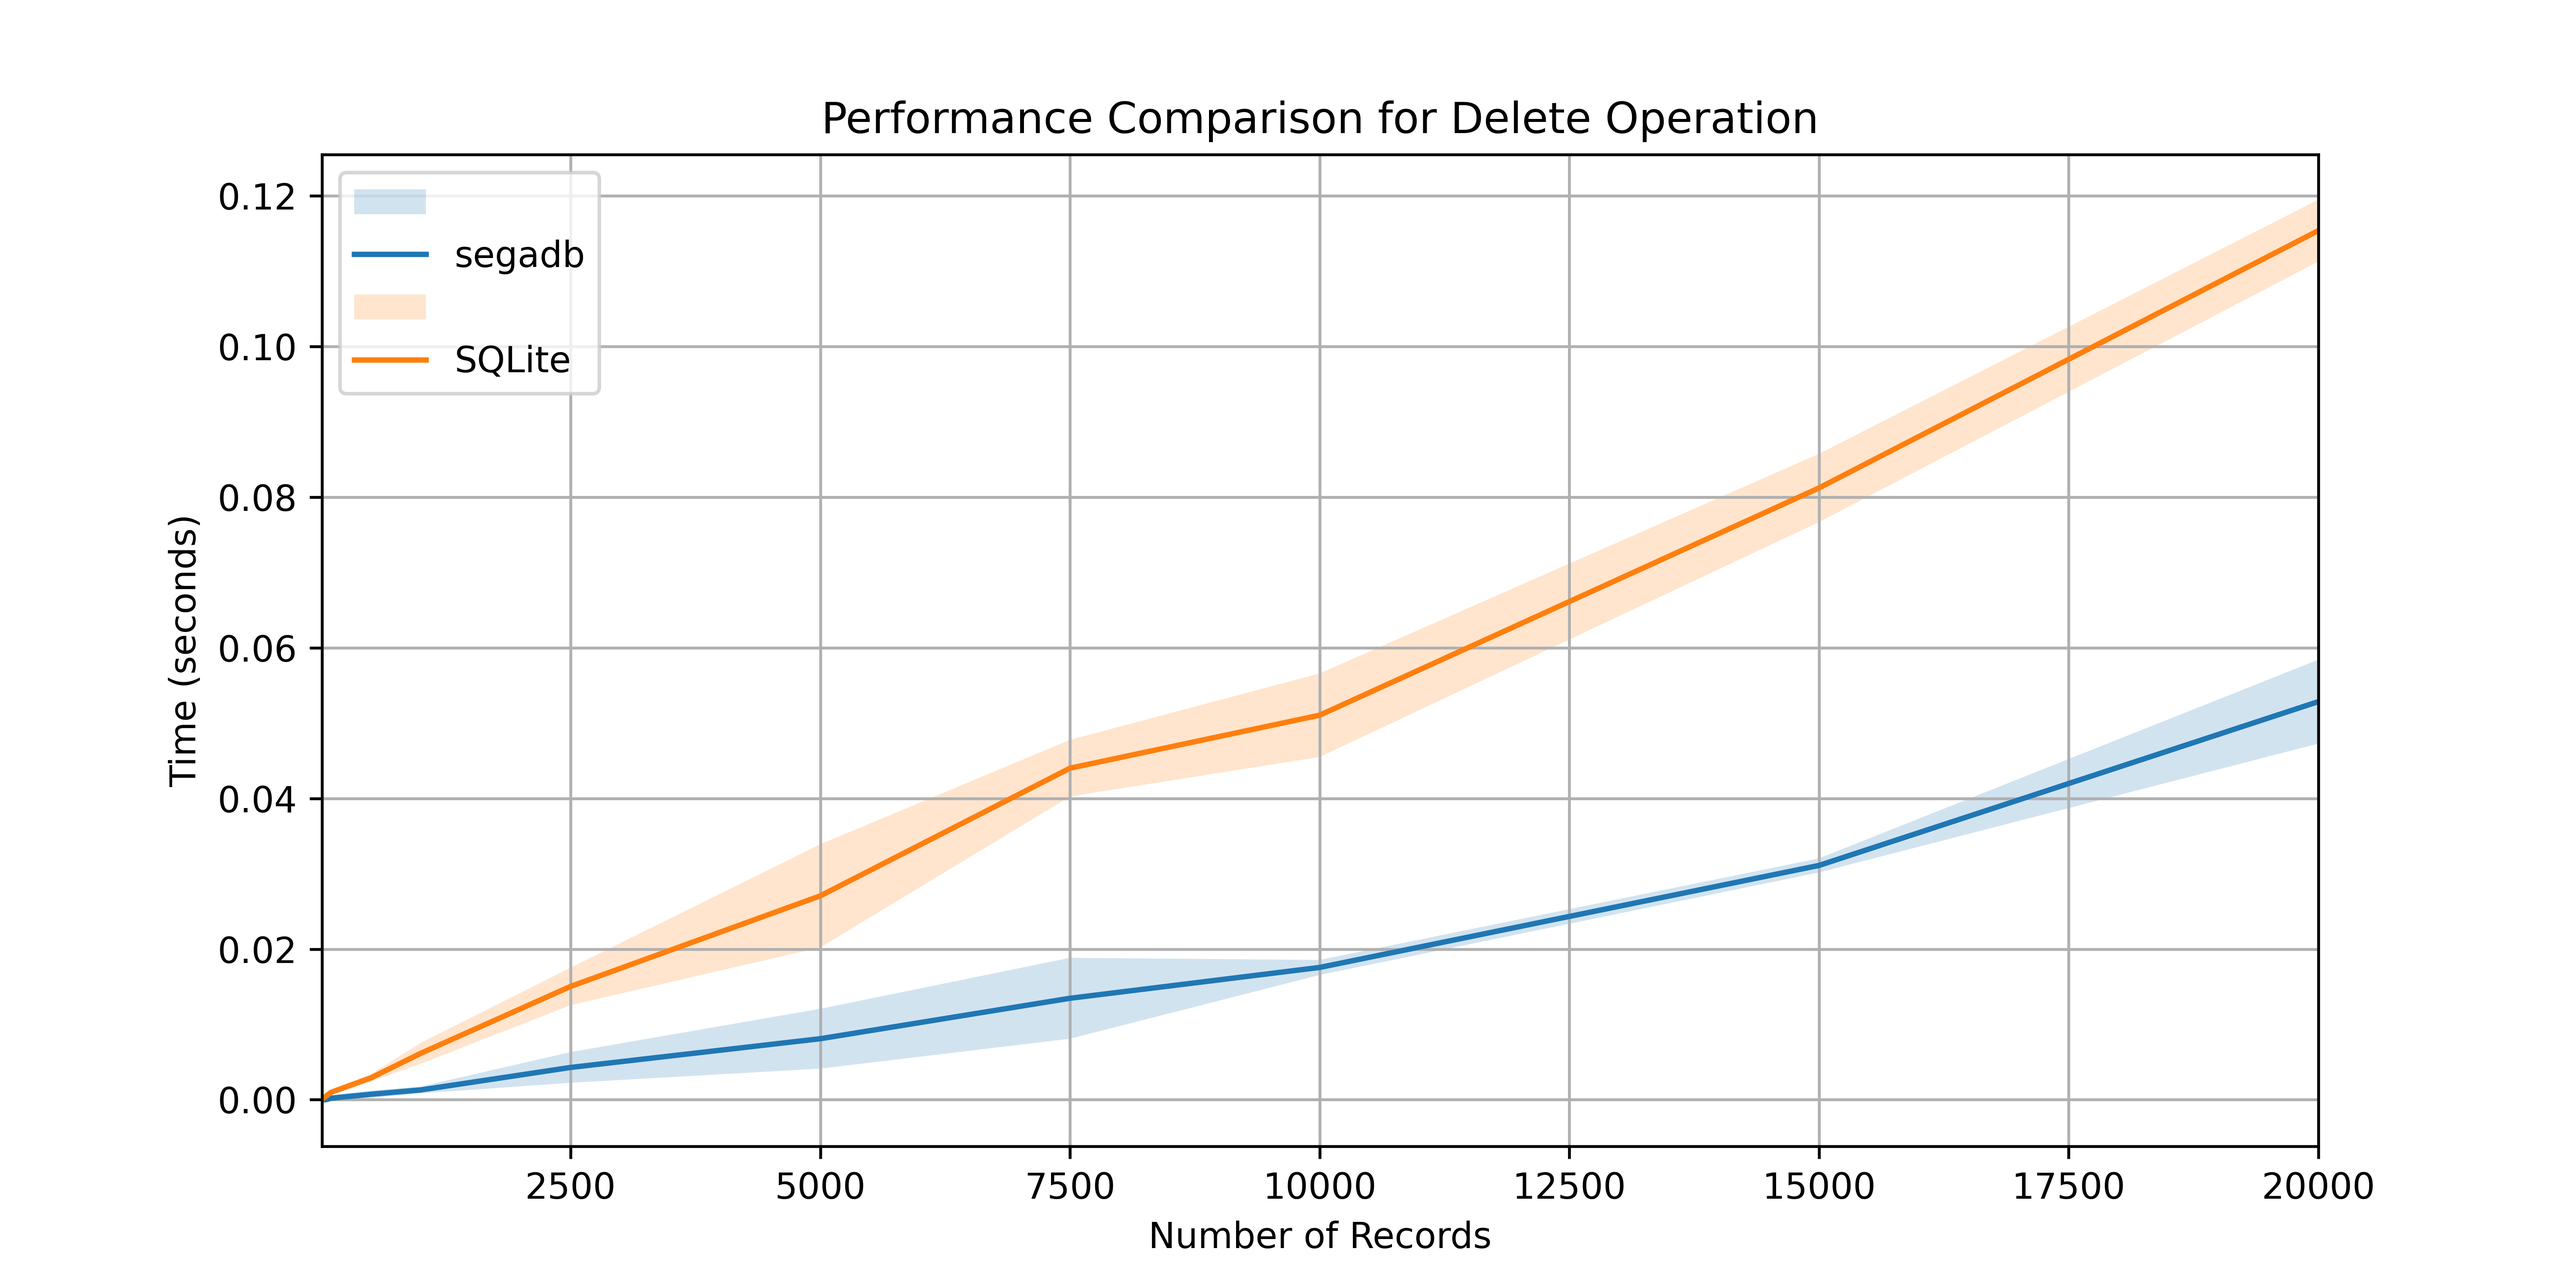
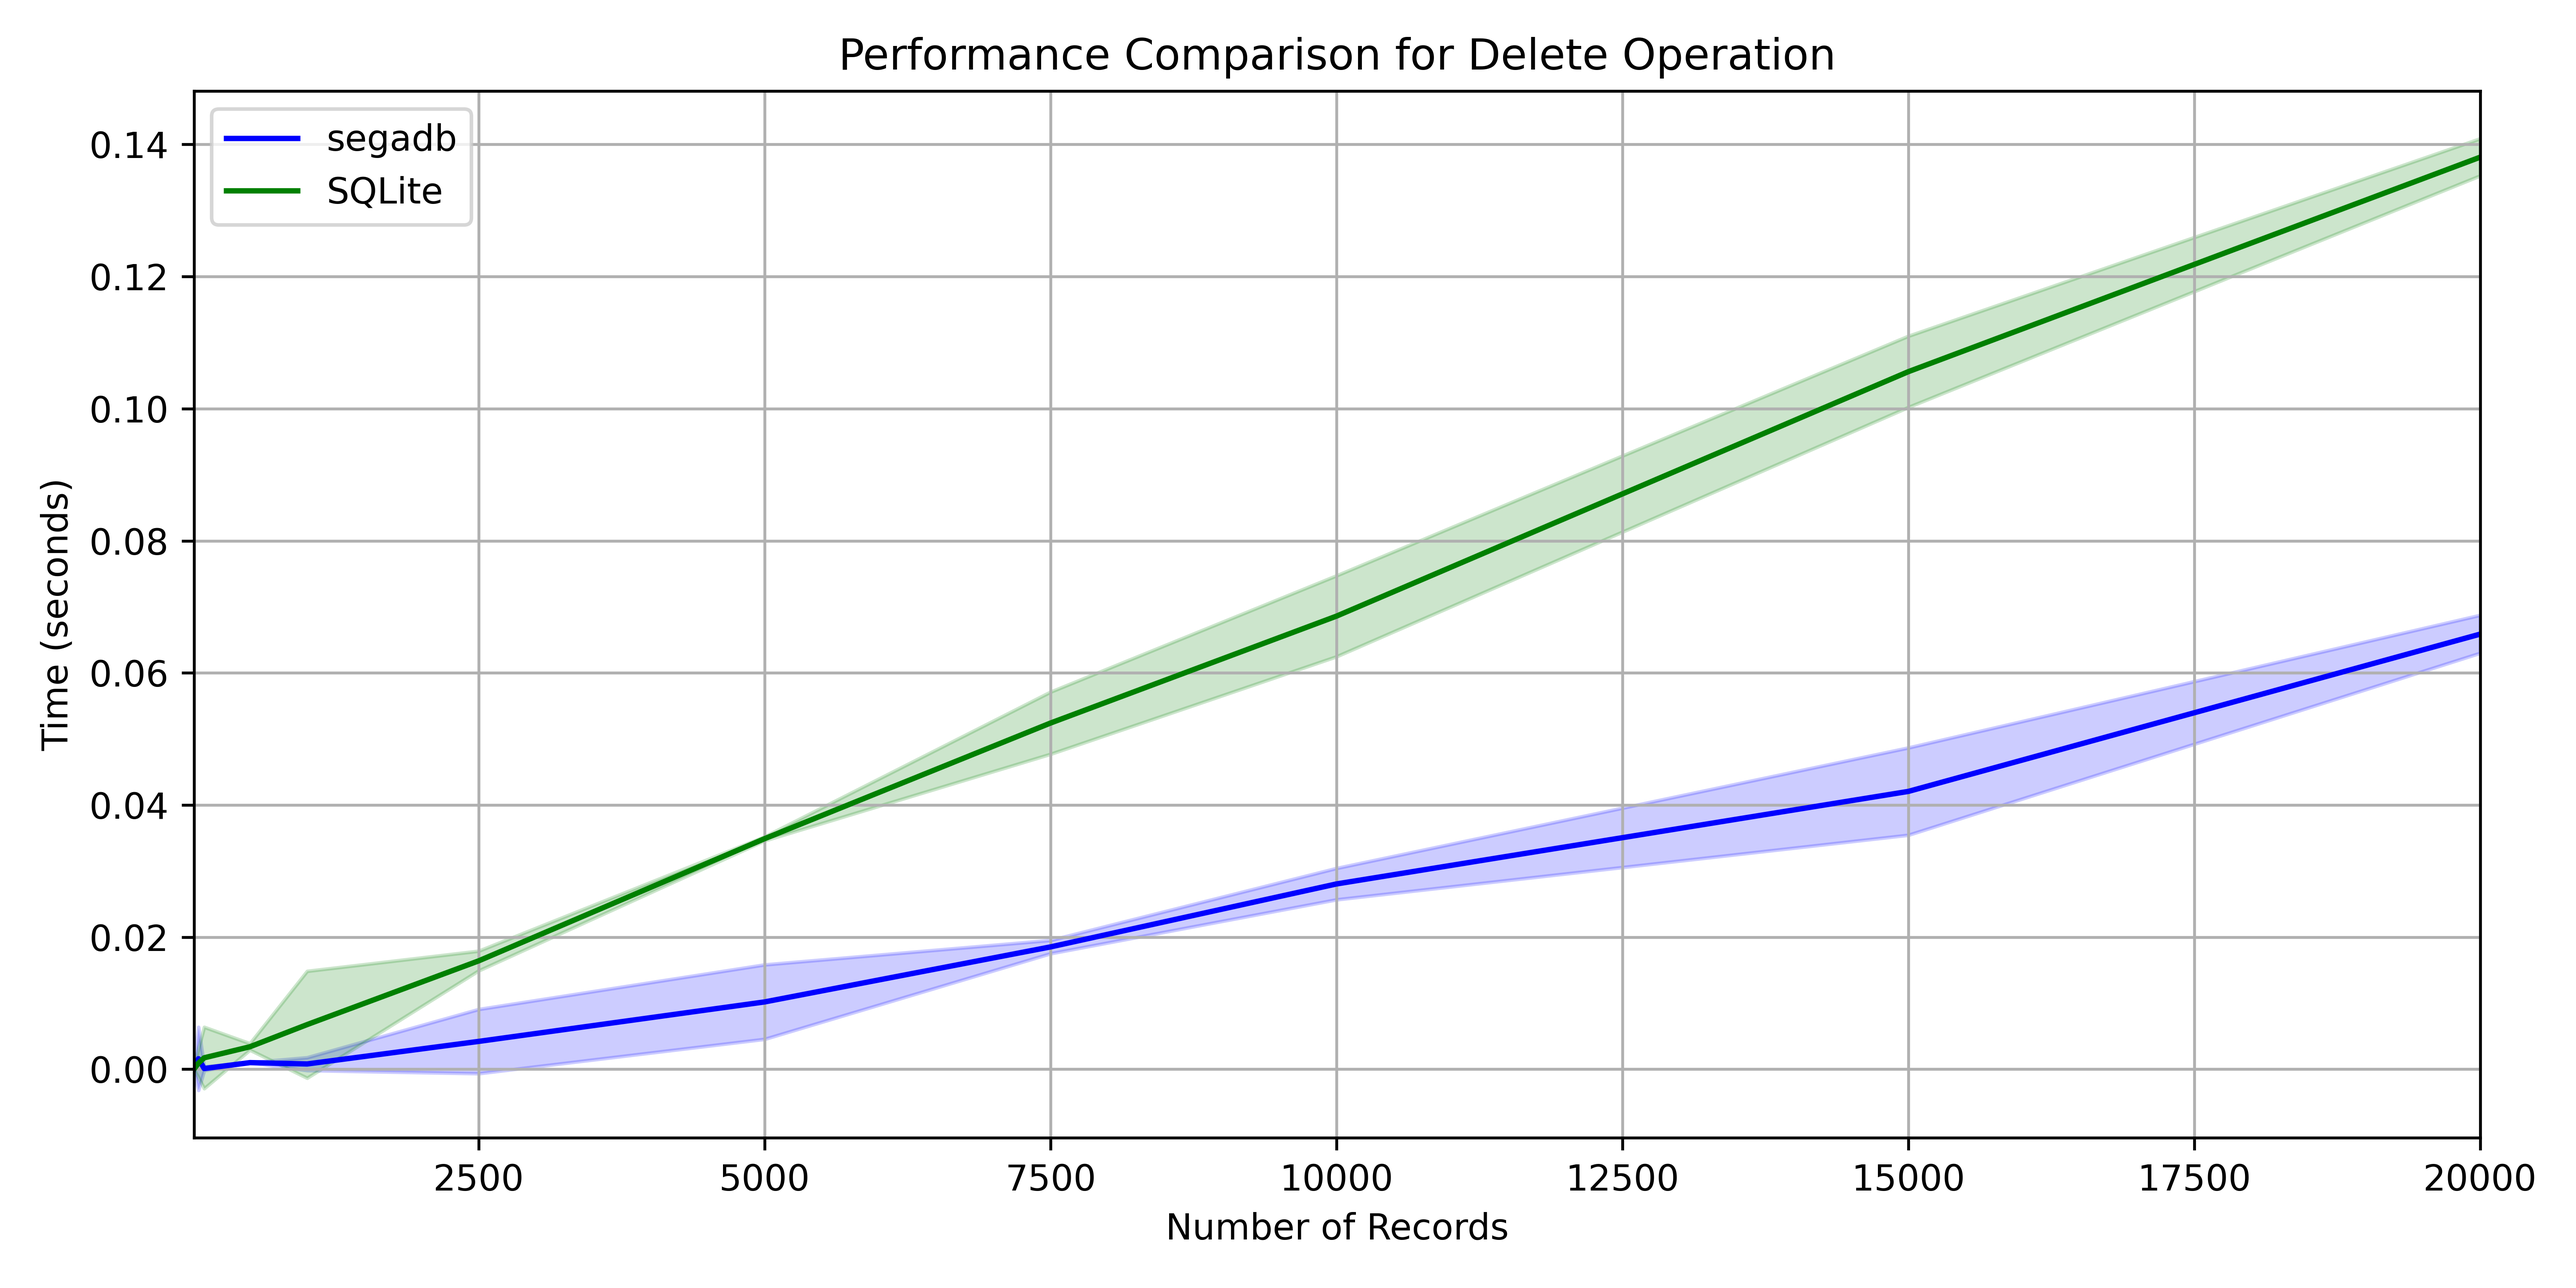
parrallel insert implemented

diff --git a/performance_comparisons/performance_comparison_inserts.py b/performance_comparisons/performance_comparison_inserts.py
@@ -1,0 +1,157 @@
+import sys
+import os
+import random
+from faker import Faker
+from multiprocessing import freeze_support
+import time
+import statistics
+import copy
+import matplotlib.pyplot as plt
+import numpy as np
+import sqlite3
+
+# Change the working directory to the parent directory to allow importing the segadb package.
+sys.path.insert(0, os.path.abspath(os.path.join(os.path.dirname(__file__), '..')))
+
+from segadb import *
+
+def timeAndCompare():
+    """
+    Compare performance between regular insert and parallel insert operations.
+    Records average time for multiple runs with different record counts.
+    """
+    repeat = 3
+    num_records_list = [10, 50, 100, 500, 1_000, 2_500, 5_000, 7_500, 10_000, 15_000, 25_000]
+    # num_records_list = [10, 50, 100, 500]   # For quick testing
+
+    # Store results for each record count
+    results = {n: {'insert': [], 'parallel': [], 'sqlite': []} for n in num_records_list}
+
+    # Initialize database and tables
+    db = Database("PerformanceTestDB")
+    columns = ["product_id", "name", "category", "price"]
+    db.create_table("products", columns)
+    db.create_table("products_p", columns)
+
+    table = db.get_table("products")
+    table_p = db.get_table("products_p")
+
+    # Create a SQLite database
+    conn = sqlite3.connect(":memory:")
+    cursor = conn.cursor()
+    cursor.execute("CREATE TABLE products (product_id INTEGER PRIMARY KEY, name TEXT, category TEXT, price REAL)")
+    conn.commit()
+
+    # Create a fake data generator
+    fake = Faker()
+    
+    # Run tests for each record count
+    for n in num_records_list:
+        print(f"\nTesting with {n} records...")
+        
+        for r in range(repeat):
+            print(f"  Run {r + 1}/{repeat}")
+            
+            # Truncate tables before each run
+            table.truncate()
+            table_p.truncate()
+            cursor.execute("DELETE FROM products")
+            conn.commit()
+
+            # Generate test records
+            records = [
+                {
+                    "product_id": i + 1, 
+                    "name": fake.word(), 
+                    "category": random.choice(["Electronics", "Clothing", "Home", "Sports"]),
+                    "price": round(random.uniform(10.0, 500.0), 2)
+                } for i in range(n)
+            ]
+            
+            # Test parallel insert
+            records_copy = copy.deepcopy(records)  # Create a deep copy for parallel insert
+            start_time = time.time()
+            table_p.parallel_insert(records_copy)
+            end_time = time.time()
+            results[n]['parallel'].append(end_time - start_time)
+            
+            # Test regular insert
+            start_time = time.time()
+            for record in records:
+                table.insert(record)
+            end_time = time.time()
+            results[n]['insert'].append(end_time - start_time)
+
+            # Test insert using SQLite
+            start_time = time.time()
+            for record in records:
+                cursor.execute(f"INSERT INTO products (product_id, name, category, price) VALUES ({record['product_id']}, '{record['name']}', '{record['category']}', {record['price']})")
+                conn.commit()
+            end_time = time.time()
+            results[n]['sqlite'].append(end_time - start_time)
+
+            # Check that the tables have the expected number of records
+            assert len(table.records) == n
+            assert len(table_p.records) == n
+            assert len(cursor.execute("SELECT * FROM products").fetchall()) == n
+
+        # Calculate and display averages for this record count
+        avg_insert = statistics.mean(results[n]['insert'])
+        avg_parallel = statistics.mean(results[n]['parallel'])
+        avg_sqlite = statistics.mean(results[n]['sqlite'])
+
+        std_insert = statistics.stdev(results[n]['insert']) if len(results[n]['insert']) > 1 else 0
+        std_parallel = statistics.stdev(results[n]['parallel']) if len(results[n]['parallel']) > 1 else 0
+        std_sqlite = statistics.stdev(results[n]['sqlite']) if len(results[n]['sqlite']) > 1 else 0
+        
+        print(f"Results for {n} records:")
+        print(f"  Regular Insert:   {avg_insert:.4f} ± {std_insert:.4f} seconds")
+        print(f"  Parallel Insert:  {avg_parallel:.4f} ± {std_parallel:.4f} seconds")
+        print(f"  SQLite Insert:    {avg_sqlite:.4f} ± {std_sqlite:.4f} seconds")
+    
+    plot_results(results)
+
+def tsplot(ax, data, x, **kw):
+    """
+    Plot time series data with confidence intervals.
+    """    
+    mean_estimate = np.mean(data, axis=0)
+    std_dev = np.std(data, axis=0)
+    ci_bounds = (mean_estimate - std_dev, mean_estimate + std_dev)
+    
+    # Remove 'label' from kw before passing to fill_between
+    fill_kw = {k: v for k, v in kw.items() if k != "label"}
+
+    ax.fill_between(x, ci_bounds[0], ci_bounds[1], alpha=0.2, **fill_kw)
+    ax.plot(x, mean_estimate, **kw)
+    ax.margins(x=0)
+
+def plot_results(results):
+    """
+    Plot the performance comparison results using tsplot.
+    """
+    record_counts = np.array(list(results.keys()))
+    insert_times = np.array([results[n]['insert'] for n in record_counts])
+    parallel_times = np.array([results[n]['parallel'] for n in record_counts])
+    sqlite_times = np.array([results[n]['sqlite'] for n in record_counts])
+    
+    plt.figure(figsize=(10, 5))
+    ax = plt.gca()
+    tsplot(ax, insert_times.T, x=record_counts, color='b', label='Regular Insert')
+    tsplot(ax, parallel_times.T, x=record_counts, color='r', label='Parallel Insert')
+    tsplot(ax, sqlite_times.T, x=record_counts, color='g', label='SQLite Insert')
+    
+    plt.xlabel('Number of Records')
+    plt.ylabel('Time (seconds)')
+    plt.title('Performance Comparison for Insert Operation')
+    plt.grid(True)
+    plt.legend()
+    plt.tight_layout()
+    # plt.show()
+    plt.savefig(f"performance_comparisons/perf_comp_insert_parallel.png", dpi=600)
+
+
+
+if __name__ == '__main__':
+    freeze_support()
+    timeAndCompare()

diff --git a/performance_comparisons/performance_comparison.py b/performance_comparisons/performance_comparison.py
@@ -102,8 +102,12 @@ class TestDatabasePerformance:
         
         # Test inserting records
         start_time = time.time()
-        for i in range(self.num_records):
-            test_table.insert({"id": i, "name": f"User{i}", "email": f"user{i}@example.com"})
+        # for i in range(self.num_records):
+        #     test_table.insert({"id": i, "name": f"User{i}", "email": f"user{i}@example.com"})
+
+        records = [{"id": i, "name": f"User{i}", "email": f"user{i}@example.com"} for i in range(self.num_records)]
+        test_table.parallel_insert(records)
+
         assert len(test_table.records) == self.num_records
         
         end_time = time.time()
@@ -489,8 +493,10 @@ def tsplot(ax, data, x, **kw):
     std_dev = np.std(data, axis=0)
     ci_bounds = (mean_estimate - std_dev, mean_estimate + std_dev)
     
-    # Plot the data (mean and confidence intervals)
-    ax.fill_between(x, ci_bounds[0], ci_bounds[1], alpha=0.2, **kw)
+    # Remove 'label' from kw before passing to fill_between
+    fill_kw = {k: v for k, v in kw.items() if k != "label"}
+
+    ax.fill_between(x, ci_bounds[0], ci_bounds[1], alpha=0.2, **fill_kw)
     ax.plot(x, mean_estimate, **kw)
     ax.margins(x=0)     # Remove margins to prevent clipping
 
@@ -512,13 +518,14 @@ def plot_results(num_records_list, resultsSegadb_list, resultsSQLite_list):
         # Plot the results
         plt.figure(figsize=(10, 5))
         ax = plt.gca()
-        tsplot(ax, np.array(segadb_times).T, x=num_records_list)
-        tsplot(ax, np.array(sqlite_times).T, x=num_records_list)
+        tsplot(ax, np.array(segadb_times).T, x=num_records_list, color='b', label='segadb')
+        tsplot(ax, np.array(sqlite_times).T, x=num_records_list, color='g', label='SQLite')
         plt.xlabel('Number of Records')
         plt.ylabel('Time (seconds)')
         plt.title(f'Performance Comparison for {operation.capitalize()} Operation')
-        plt.legend(['', 'segadb', '', 'SQLite'])
+        plt.legend()
         plt.grid(True)
+        plt.tight_layout()
         # plt.show()
         plt.savefig(f"performance_comparisons/perf_comp_{operation}.png", dpi=600)
 

diff --git a/examples/example_parallel_insert.py b/examples/example_parallel_insert.py
@@ -1,0 +1,48 @@
+import sys
+import os
+import random
+from faker import Faker
+from multiprocessing import freeze_support
+
+# Change the working directory to the parent directory to allow importing the segadb package.
+sys.path.insert(0, os.path.abspath(os.path.join(os.path.dirname(__file__), '..')))
+
+from segadb import *
+
+def insert():
+    NUM_RECORDS = 10000
+
+    # Create a new database
+    db = Database("MyTestDB")
+    
+    columns = ["product_id", "name", "category", "price"]
+    db.create_table("products", columns)
+    table = db.get_table("products")
+
+    # Create a fake data generator
+    fake = Faker()
+
+    # Generate NUM_RECORDS records
+    records = [
+        {"product_id": i + 1, 
+        "name": fake.word(), 
+        "category": random.choice(["Electronics", "Clothing", "Home", "Sports"]), "price": random.uniform(10.0, 500.0)
+        } for i in range(NUM_RECORDS)
+    ]
+
+    # Insert records in parallel using multiprocessing
+    table.parallel_insert(records)
+    print(f"Inserted {NUM_RECORDS} records in parallel")
+
+    # Insert records in parallel using multiprocessing with custom configuration
+    table.parallel_insert(records, max_workers=3, chunk_size=1000) 
+    print(f"Inserted {NUM_RECORDS} records in parallel with custom configuration")
+
+    # Insert records in parallel using safe version of insert
+    table.parallel_try_insert(records)
+    print(f"Inserted {NUM_RECORDS} records in parallel using safe version of insert")
+
+
+if __name__ == '__main__':
+    freeze_support()
+    insert()
